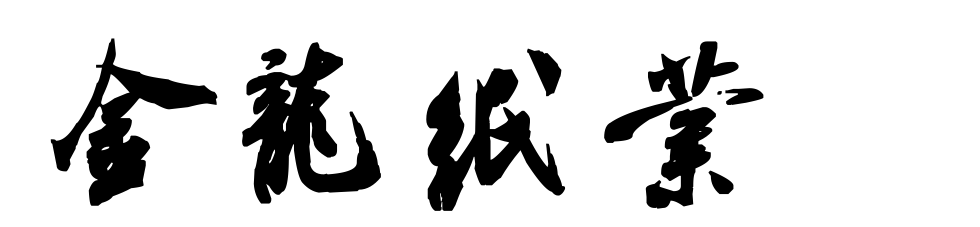
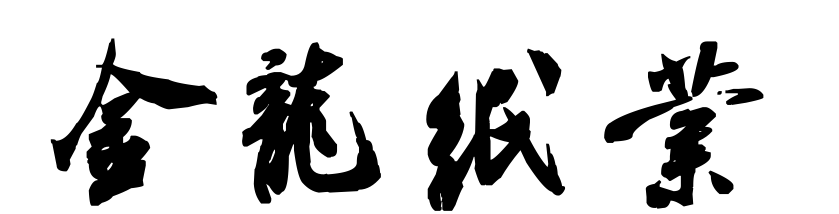
optimize
1. 标签图片优化

Changed region(s): [[0.031, 0.1682, 0.9297, 0.9813], [0.1859, 0.3645, 0.2169, 0.3925]]

diff --git a/wasterecycle.cpp b/wasterecycle.cpp
@@ -171,10 +171,18 @@ WasteRecycle::WasteRecycle(QWidget *parent) :
 //    palette .setBrush(QPalette::Background, QBrush(pixmap));
 //    this->setPalette( palette );
 
-    // 设置金龙纸业label
-    QPixmap myPix = QPixmap(":/images/mimeiti_da.png").scaled(425, 97);
-    ui->lb_display->setPixmap(myPix);
+    // 设置标签图片
+    QPixmap titlePix = QPixmap(":/images/mimeiti_da.png").scaled(600, 160);
+    ui->lb_display->setPixmap(titlePix);
     ui->lb_display->show();
+
+    QPixmap pricePix = QPixmap(":/images/price_big.png").scaled(200, 80);
+    ui->label_9->setPixmap(pricePix);
+    ui->label_9->show();
+
+    QPixmap yuanPix = QPixmap(":/images/yuan_big.png").scaled(80, 80);
+    ui->label_8->setPixmap(yuanPix);
+    ui->label_8->show();
 
     // 设置默认的焦点
     ui->le_RoughWeigh->setFocus();
@@ -698,8 +706,8 @@ void WasteRecycle::initTableView() {
     model->setHorizontalHeaderItem(2, new QStandardItem("毛重"));
     model->setHorizontalHeaderItem(3, new QStandardItem("车重"));
     model->setHorizontalHeaderItem(4, new QStandardItem("净重"));
-    model->setHorizontalHeaderItem(5, new QStandardItem("价格"));
-    model->setHorizontalHeaderItem(6, new QStandardItem("总价"));
+    model->setHorizontalHeaderItem(5, new QStandardItem("单价"));
+    model->setHorizontalHeaderItem(6, new QStandardItem("价格"));
 
     ui->tableView->setModel(model);
     ui->tableView->horizontalHeader()->setStyleSheet("QHeaderView::section {background-color:rgb(230, 253, 255);"
@@ -727,8 +735,8 @@ void WasteRecycle::initTableView() {
     model_unloading->setHorizontalHeaderItem(2, new QStandardItem("毛重"));
     model_unloading->setHorizontalHeaderItem(3, new QStandardItem("车重"));
     model_unloading->setHorizontalHeaderItem(4, new QStandardItem("净重"));
-    model_unloading->setHorizontalHeaderItem(5, new QStandardItem("价格"));
-    model_unloading->setHorizontalHeaderItem(6, new QStandardItem("总价"));
+    model_unloading->setHorizontalHeaderItem(5, new QStandardItem("单价"));
+    model_unloading->setHorizontalHeaderItem(6, new QStandardItem("价格"));
 
     ui->tableView_unloading->setModel(model_unloading);
     ui->tableView_unloading->horizontalHeader()->setStyleSheet("QHeaderView::section {"
@@ -1071,7 +1079,7 @@ void WasteRecycle::finalPrice(float level)
         qDebug() << "level: " << level << " VehicleWeigh is empty.";
         return;
     }
-    ui->lb_Price->setText(towDecimalPlaces(QString("%1").arg(priceCalculate(level))));
+    ui->lb_Price->setText(QString("%1").arg(priceCalculate(level)));
     /*QString qstrCurrIndex = ui->lb_CurrNum->text();
     int iCurrIndex = qstrCurrIndex.toInt();
 
@@ -1430,7 +1438,7 @@ void WasteRecycle::on_le_VehicleWeigh_textChanged(const QString &arg1)
     }
 
     if (isAllDigit && strVw.trimmed() != "") {
-        ui->lb_NetWeight->setText(towDecimalPlaces(QString("%1").arg((fRw - fVw)*2)));
+        ui->lb_NetWeight->setText(QString("%1").arg((fRw - fVw)*2));
     } else {
         ui->lb_NetWeight->setText("");
     }
